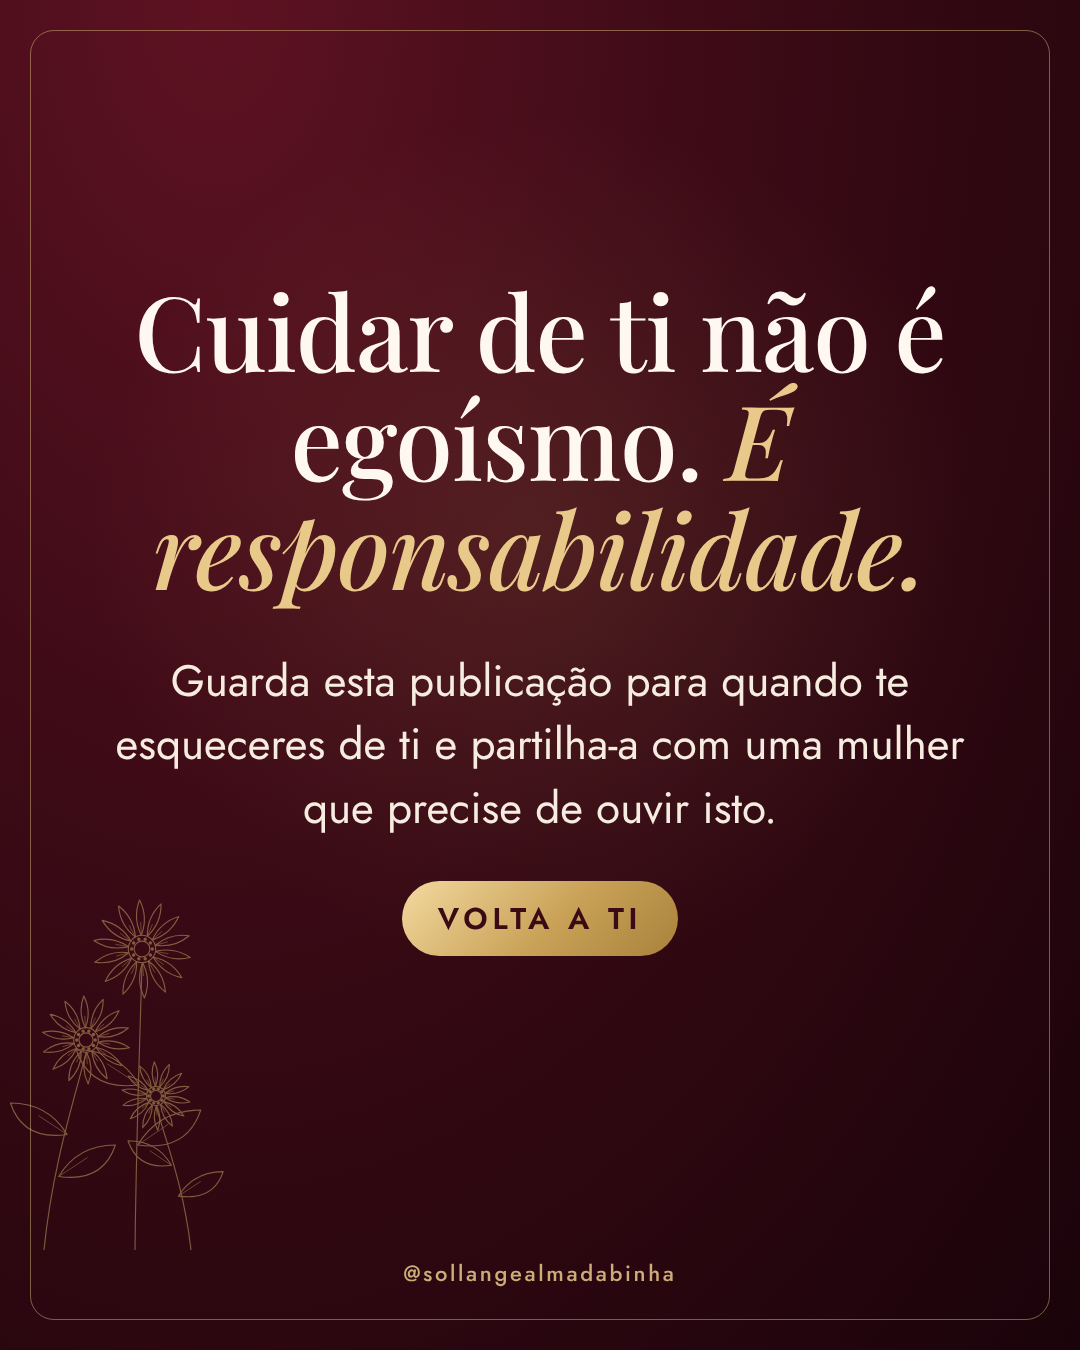
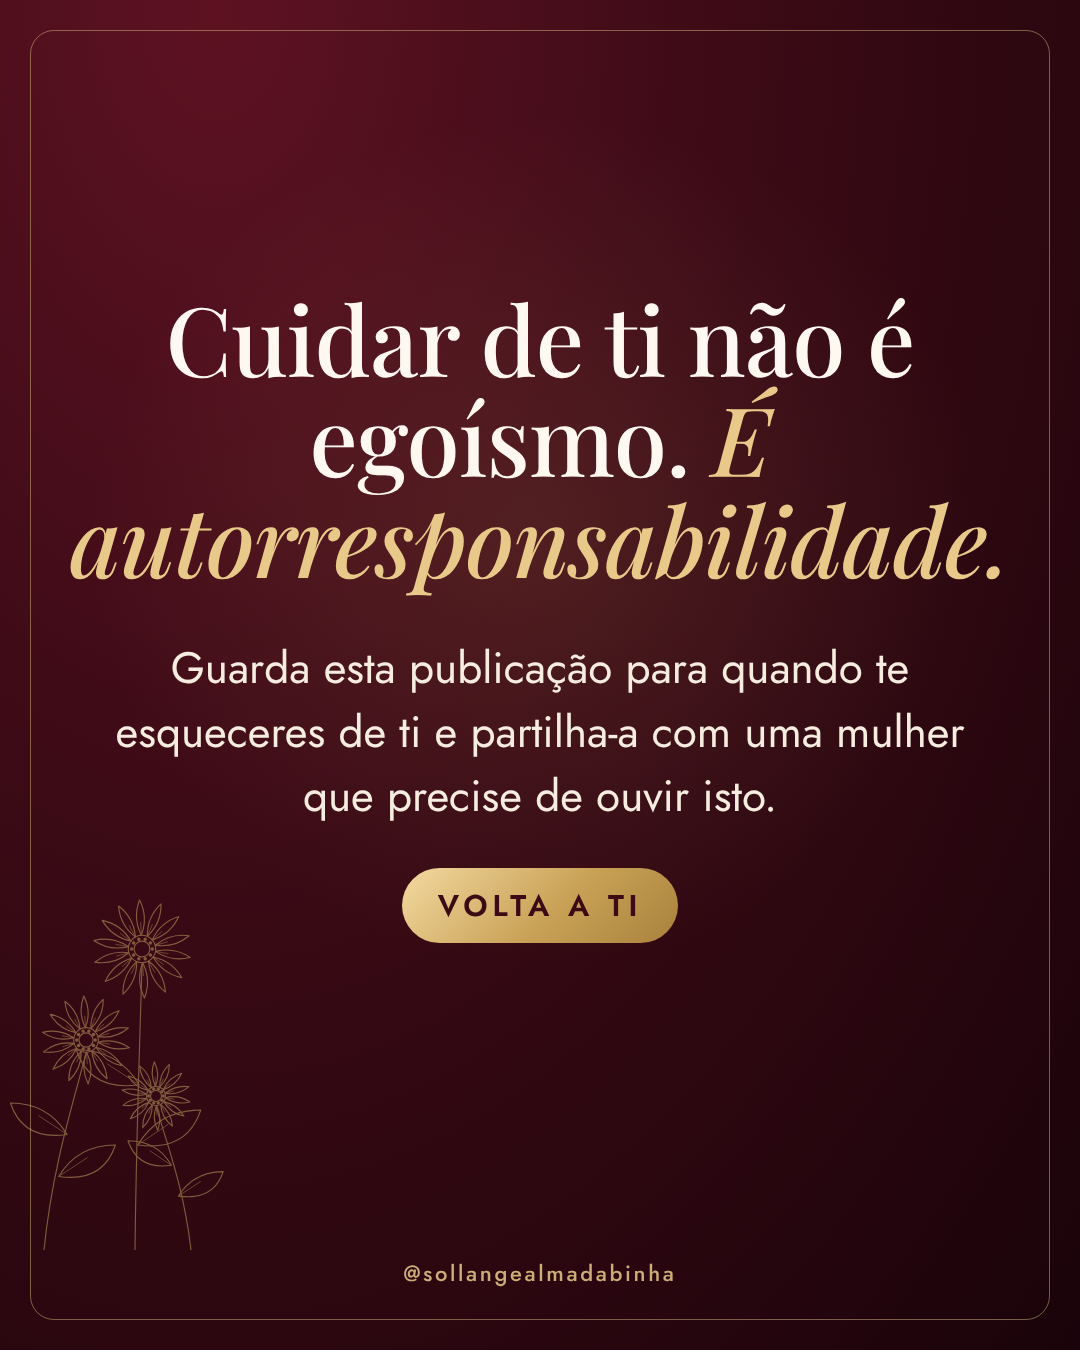
Egoismo carousel: 'autorresponsabilidade' on last slide and caption
Claude-Session: https://claude.ai/code/session_01LHQJ2mQGDsvNSWxv53LoAn

Changed region(s): [[0.0611, 0.2178, 0.9167, 0.7156]]

diff --git a/carrossel/carrossel-egoismo-vinho.html b/carrossel/carrossel-egoismo-vinho.html
@@ -66,7 +66,7 @@ h1 em,h2 em{font-style:italic;color:#E9C98A}
 <p class="seta">Desliza →</p><div class="rod"><span>@sollangealmadabinha</span></div></section><section class="s" id="p7">
 <svg class="flor" style="left:-40px;bottom:100px;width:280px;height:420px" viewBox="0 0 400 600" fill="none" stroke="#D4AF6A" stroke-width="1.6" stroke-linejoin="round"><path d="M120 600 C132.0 480.0 162.0 390.0 180 318.9"/><path d="M141 495 Q204 504 222 450 Q168 450 141 495Z"/><path d="M141 495 L182 468" stroke-width="1"/><path d="M153 435 Q90 444 72 390 Q126 390 153 435Z"/><path d="M153 435 L112 408" stroke-width="1"/><path d="M197.4 303.1 Q218.0 316.9 242.0 310.9 Q221.5 297.1 197.4 303.1Z"/><path d="M197.4 303.1 L214.1 306.0" stroke-width="1"/><path d="M194.3 310.3 Q206.9 331.7 231.2 336.8 Q218.6 315.4 194.3 310.3Z"/><path d="M194.3 310.3 L208.1 320.2" stroke-width="1"/><path d="M188.4 315.5 Q190.4 340.2 210.1 355.3 Q208.1 330.6 188.4 315.5Z"/><path d="M188.4 315.5 L196.6 330.4" stroke-width="1"/><path d="M180.9 317.6 Q171.9 340.8 183.1 362.9 Q192.1 339.8 180.9 317.6Z"/><path d="M180.9 317.6 L181.7 334.6" stroke-width="1"/><path d="M173.1 316.3 Q155.0 333.2 155.5 358.1 Q173.6 341.1 173.1 316.3Z"/><path d="M173.1 316.3 L166.5 331.9" stroke-width="1"/><path d="M166.8 311.7 Q143.1 319.1 132.8 341.7 Q156.4 334.2 166.8 311.7Z"/><path d="M166.8 311.7 L154.0 322.9" stroke-width="1"/><path d="M163.0 304.8 Q138.5 301.2 119.4 317.1 Q143.9 320.6 163.0 304.8Z"/><path d="M163.0 304.8 L146.6 309.4" stroke-width="1"/><path d="M162.6 296.9 Q142.0 283.1 118.0 289.1 Q138.5 302.9 162.6 296.9Z"/><path d="M162.6 296.9 L145.9 294.0" stroke-width="1"/><path d="M165.7 289.7 Q153.1 268.3 128.8 263.2 Q141.4 284.6 165.7 289.7Z"/><path d="M165.7 289.7 L151.9 279.8" stroke-width="1"/><path d="M171.6 284.5 Q169.6 259.8 149.9 244.7 Q151.9 269.4 171.6 284.5Z"/><path d="M171.6 284.5 L163.4 269.6" stroke-width="1"/><path d="M179.1 282.4 Q188.1 259.2 176.9 237.1 Q167.9 260.2 179.1 282.4Z"/><path d="M179.1 282.4 L178.3 265.4" stroke-width="1"/><path d="M186.9 283.7 Q205.0 266.8 204.5 241.9 Q186.4 258.9 186.9 283.7Z"/><path d="M186.9 283.7 L193.5 268.1" stroke-width="1"/><path d="M193.2 288.3 Q216.9 280.9 227.2 258.3 Q203.6 265.8 193.2 288.3Z"/><path d="M193.2 288.3 L206.0 277.1" stroke-width="1"/><path d="M197.0 295.2 Q221.5 298.8 240.6 282.9 Q216.1 279.4 197.0 295.2Z"/><path d="M197.0 295.2 L213.4 290.6" stroke-width="1"/><circle cx="180" cy="300" r="17.6"/><circle cx="180" cy="300" r="10.1"/><circle cx="193.2" cy="300.0" r="1.6" fill="#D4AF6A"/><circle cx="190.7" cy="307.8" r="1.6" fill="#D4AF6A"/><circle cx="184.1" cy="312.6" r="1.6" fill="#D4AF6A"/><circle cx="175.9" cy="312.6" r="1.6" fill="#D4AF6A"/><circle cx="169.3" cy="307.8" r="1.6" fill="#D4AF6A"/><circle cx="166.8" cy="300.0" r="1.6" fill="#D4AF6A"/><circle cx="169.3" cy="292.2" r="1.6" fill="#D4AF6A"/><circle cx="175.9" cy="287.4" r="1.6" fill="#D4AF6A"/><circle cx="184.1" cy="287.4" r="1.6" fill="#D4AF6A"/><circle cx="190.7" cy="292.2" r="1.6" fill="#D4AF6A"/><path d="M250 600 C252.0 428.0 257.0 299.0 260 191.0"/><path d="M254 450 Q324 460 344 400 Q284 400 254 450Z"/><path d="M254 450 L298 420" stroke-width="1"/><path d="M256 364 Q186 374 166 314 Q226 314 256 364Z"/><path d="M256 364 L210 334" stroke-width="1"/><path d="M279.3 173.4 Q302.2 188.8 328.9 182.2 Q306.1 166.7 279.3 173.4Z"/><path d="M279.3 173.4 L297.9 176.7" stroke-width="1"/><path d="M275.9 181.4 Q289.8 205.2 316.8 210.9 Q302.9 187.1 275.9 181.4Z"/><path d="M275.9 181.4 L291.3 192.5" stroke-width="1"/><path d="M269.4 187.2 Q271.6 214.7 293.5 231.5 Q291.3 204.0 269.4 187.2Z"/><path d="M269.4 187.2 L278.4 203.8" stroke-width="1"/><path d="M261.0 189.6 Q251.0 215.3 263.5 239.9 Q273.4 214.2 261.0 189.6Z"/><path d="M261.0 189.6 L261.9 208.5" stroke-width="1"/><path d="M252.4 188.1 Q232.3 206.9 232.8 234.5 Q252.9 215.6 252.4 188.1Z"/><path d="M252.4 188.1 L245.0 205.5" stroke-width="1"/><path d="M245.3 183.0 Q219.0 191.2 207.5 216.3 Q233.8 208.0 245.3 183.0Z"/><path d="M245.3 183.0 L231.1 195.5" stroke-width="1"/><path d="M241.1 175.3 Q213.8 171.4 192.6 189.0 Q219.9 192.9 241.1 175.3Z"/><path d="M241.1 175.3 L222.9 180.4" stroke-width="1"/><path d="M240.7 166.6 Q217.8 151.2 191.1 157.8 Q213.9 173.3 240.7 166.6Z"/><path d="M240.7 166.6 L222.1 163.3" stroke-width="1"/><path d="M244.1 158.6 Q230.2 134.8 203.2 129.1 Q217.1 152.9 244.1 158.6Z"/><path d="M244.1 158.6 L228.7 147.5" stroke-width="1"/><path d="M250.6 152.8 Q248.4 125.3 226.5 108.5 Q228.7 136.0 250.6 152.8Z"/><path d="M250.6 152.8 L241.6 136.2" stroke-width="1"/><path d="M259.0 150.4 Q269.0 124.7 256.5 100.1 Q246.6 125.8 259.0 150.4Z"/><path d="M259.0 150.4 L258.1 131.5" stroke-width="1"/><path d="M267.6 151.9 Q287.7 133.1 287.2 105.5 Q267.1 124.4 267.6 151.9Z"/><path d="M267.6 151.9 L275.0 134.5" stroke-width="1"/><path d="M274.7 157.0 Q301.0 148.8 312.5 123.7 Q286.2 132.0 274.7 157.0Z"/><path d="M274.7 157.0 L288.9 144.5" stroke-width="1"/><path d="M278.9 164.7 Q306.2 168.6 327.4 151.0 Q300.1 147.1 278.9 164.7Z"/><path d="M278.9 164.7 L297.1 159.6" stroke-width="1"/><circle cx="260" cy="170" r="19.6"/><circle cx="260" cy="170" r="11.2"/><circle cx="274.7" cy="170.0" r="1.6" fill="#D4AF6A"/><circle cx="271.9" cy="178.6" r="1.6" fill="#D4AF6A"/><circle cx="264.5" cy="184.0" r="1.6" fill="#D4AF6A"/><circle cx="255.5" cy="184.0" r="1.6" fill="#D4AF6A"/><circle cx="248.1" cy="178.6" r="1.6" fill="#D4AF6A"/><circle cx="245.3" cy="170.0" r="1.6" fill="#D4AF6A"/><circle cx="248.1" cy="161.4" r="1.6" fill="#D4AF6A"/><circle cx="255.5" cy="156.0" r="1.6" fill="#D4AF6A"/><circle cx="264.5" cy="156.0" r="1.6" fill="#D4AF6A"/><circle cx="271.9" cy="161.4" r="1.6" fill="#D4AF6A"/><path d="M330 600 C320.0 512.0 295.0 446.0 280 394.7"/><path d="M312 523 Q362 530 376 488 Q334 488 312 523Z"/><path d="M312 523 L344 502" stroke-width="1"/><path d="M302 479 Q254 486 240 444 Q282 444 302 479Z"/><path d="M302 479 L271 458" stroke-width="1"/><path d="M293.5 382.4 Q309.5 393.2 328.3 388.5 Q312.2 377.7 293.5 382.4Z"/><path d="M293.5 382.4 L306.5 384.7" stroke-width="1"/><path d="M291.1 388.0 Q300.9 404.7 319.8 408.6 Q310.0 391.9 291.1 388.0Z"/><path d="M291.1 388.0 L301.9 395.7" stroke-width="1"/><path d="M286.6 392.0 Q288.1 411.3 303.4 423.0 Q301.9 403.8 286.6 392.0Z"/><path d="M286.6 392.0 L292.9 403.7" stroke-width="1"/><path d="M280.7 393.7 Q273.7 411.7 282.4 428.9 Q289.4 410.9 280.7 393.7Z"/><path d="M280.7 393.7 L281.3 406.9" stroke-width="1"/><path d="M274.7 392.6 Q260.6 405.9 261.0 425.2 Q275.0 411.9 274.7 392.6Z"/><path d="M274.7 392.6 L269.5 404.8" stroke-width="1"/><path d="M269.7 389.1 Q251.3 394.9 243.3 412.4 Q261.7 406.6 269.7 389.1Z"/><path d="M269.7 389.1 L259.8 397.8" stroke-width="1"/><path d="M266.8 383.7 Q247.7 380.9 232.8 393.3 Q251.9 396.0 266.8 383.7Z"/><path d="M266.8 383.7 L254.1 387.3" stroke-width="1"/><path d="M266.5 377.6 Q250.5 366.8 231.7 371.5 Q247.8 382.3 266.5 377.6Z"/><path d="M266.5 377.6 L253.5 375.3" stroke-width="1"/><path d="M268.9 372.0 Q259.1 355.3 240.2 351.4 Q250.0 368.1 268.9 372.0Z"/><path d="M268.9 372.0 L258.1 364.3" stroke-width="1"/><path d="M273.4 368.0 Q271.9 348.7 256.6 337.0 Q258.1 356.2 273.4 368.0Z"/><path d="M273.4 368.0 L267.1 356.3" stroke-width="1"/><path d="M279.3 366.3 Q286.3 348.3 277.6 331.1 Q270.6 349.1 279.3 366.3Z"/><path d="M279.3 366.3 L278.7 353.1" stroke-width="1"/><path d="M285.3 367.4 Q299.4 354.1 299.0 334.8 Q285.0 348.1 285.3 367.4Z"/><path d="M285.3 367.4 L290.5 355.2" stroke-width="1"/><path d="M290.3 370.9 Q308.7 365.1 316.7 347.6 Q298.3 353.4 290.3 370.9Z"/><path d="M290.3 370.9 L300.2 362.2" stroke-width="1"/><path d="M293.2 376.3 Q312.3 379.1 327.2 366.7 Q308.1 364.0 293.2 376.3Z"/><path d="M293.2 376.3 L305.9 372.7" stroke-width="1"/><circle cx="280" cy="380" r="13.7"/><circle cx="280" cy="380" r="7.8"/><circle cx="290.3" cy="380.0" r="1.6" fill="#D4AF6A"/><circle cx="288.3" cy="386.0" r="1.6" fill="#D4AF6A"/><circle cx="283.2" cy="389.8" r="1.6" fill="#D4AF6A"/><circle cx="276.8" cy="389.8" r="1.6" fill="#D4AF6A"/><circle cx="271.7" cy="386.0" r="1.6" fill="#D4AF6A"/><circle cx="269.7" cy="380.0" r="1.6" fill="#D4AF6A"/><circle cx="271.7" cy="374.0" r="1.6" fill="#D4AF6A"/><circle cx="276.8" cy="370.2" r="1.6" fill="#D4AF6A"/><circle cx="283.2" cy="370.2" r="1.6" fill="#D4AF6A"/><circle cx="288.3" cy="374.0" r="1.6" fill="#D4AF6A"/></svg>
 <div class="z" style="position:absolute;left:100px;right:100px;top:0;bottom:120px;display:flex;flex-direction:column;justify-content:center;text-align:center;align-items:center">
-<h2 style="font-size:104px">Cuidar de ti não é egoísmo. <em>É responsabilidade.</em></h2>
+<h2 style="font-size:96px">Cuidar de ti não é egoísmo. <em>É autorresponsabilidade.</em></h2>
 <p class="r" style="margin-top:48px;font-size:44px">Guarda esta publicação para quando te esqueceres de ti e partilha-a com uma mulher que precise de ouvir isto.</p>
 <span class="etq" style="margin-top:40px">Volta a ti</span>
 </div>
